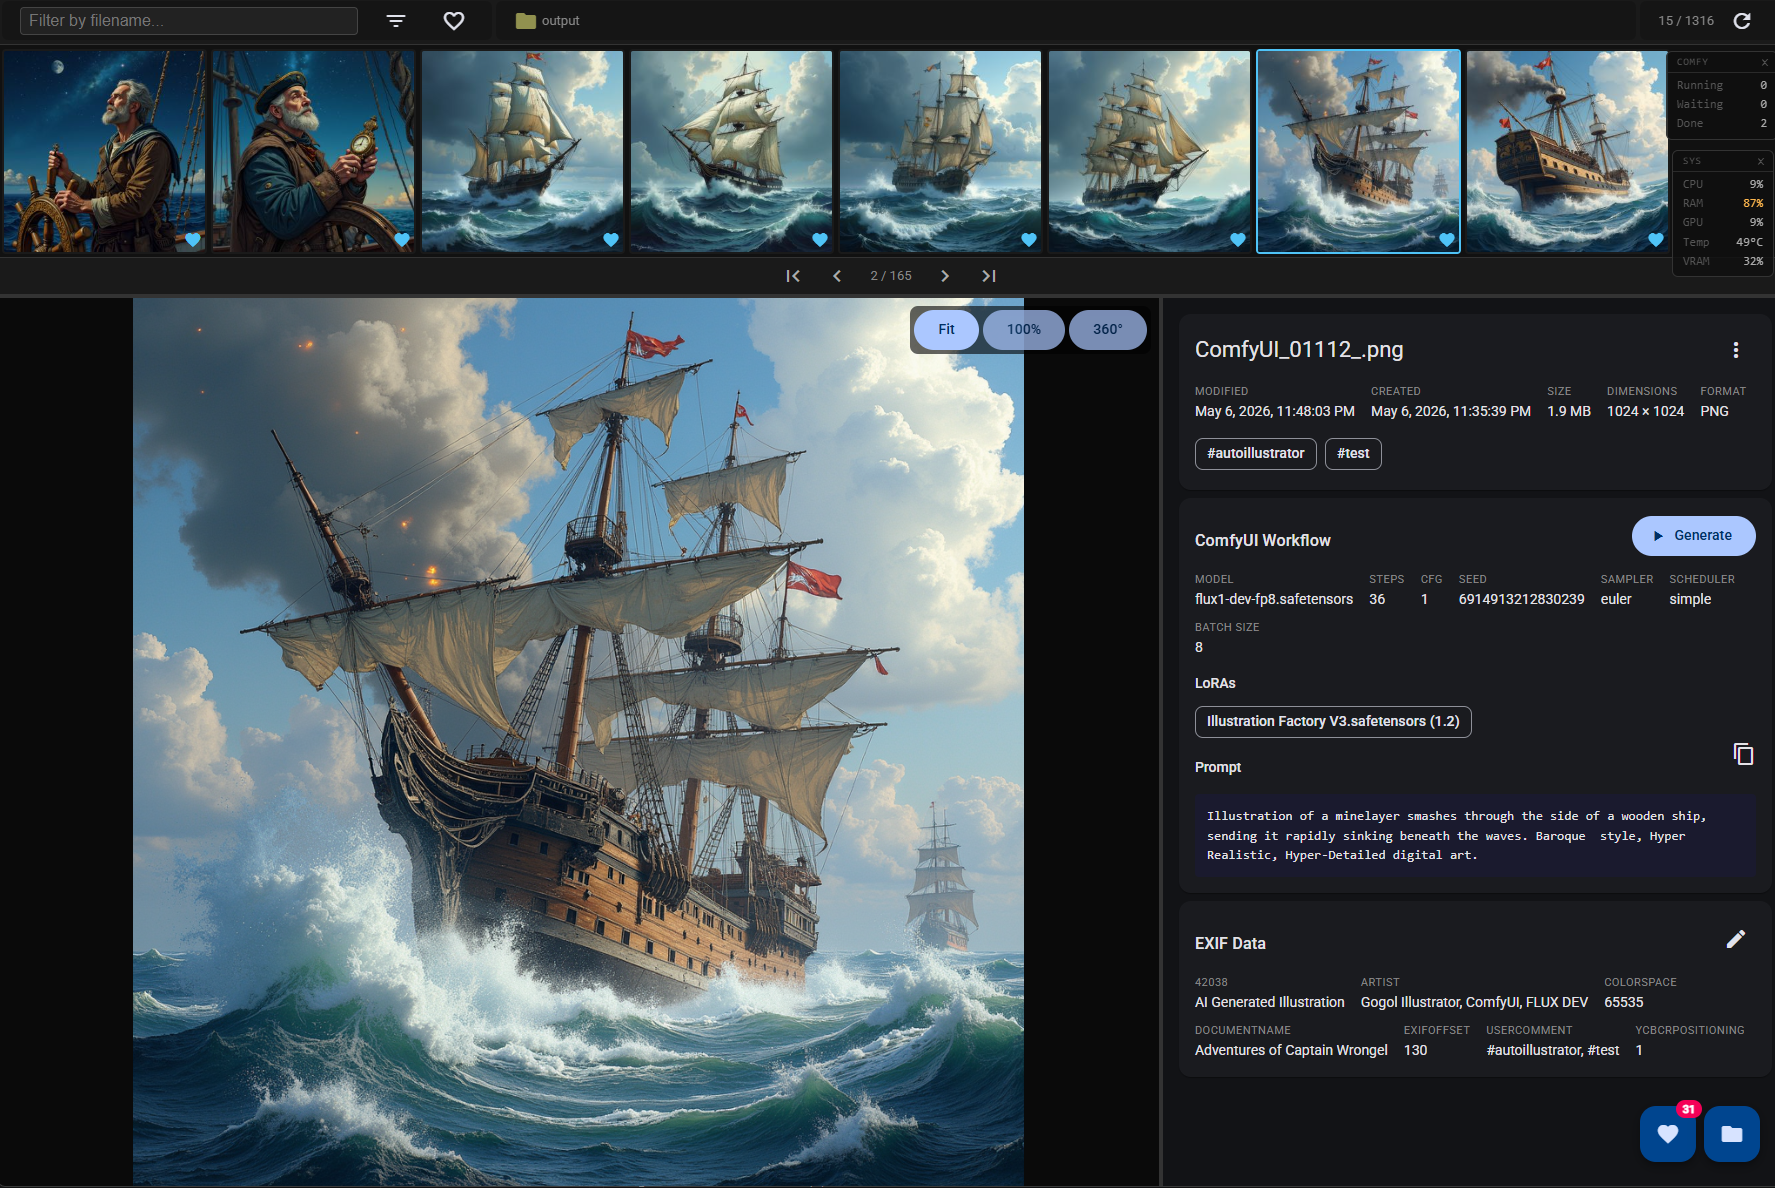
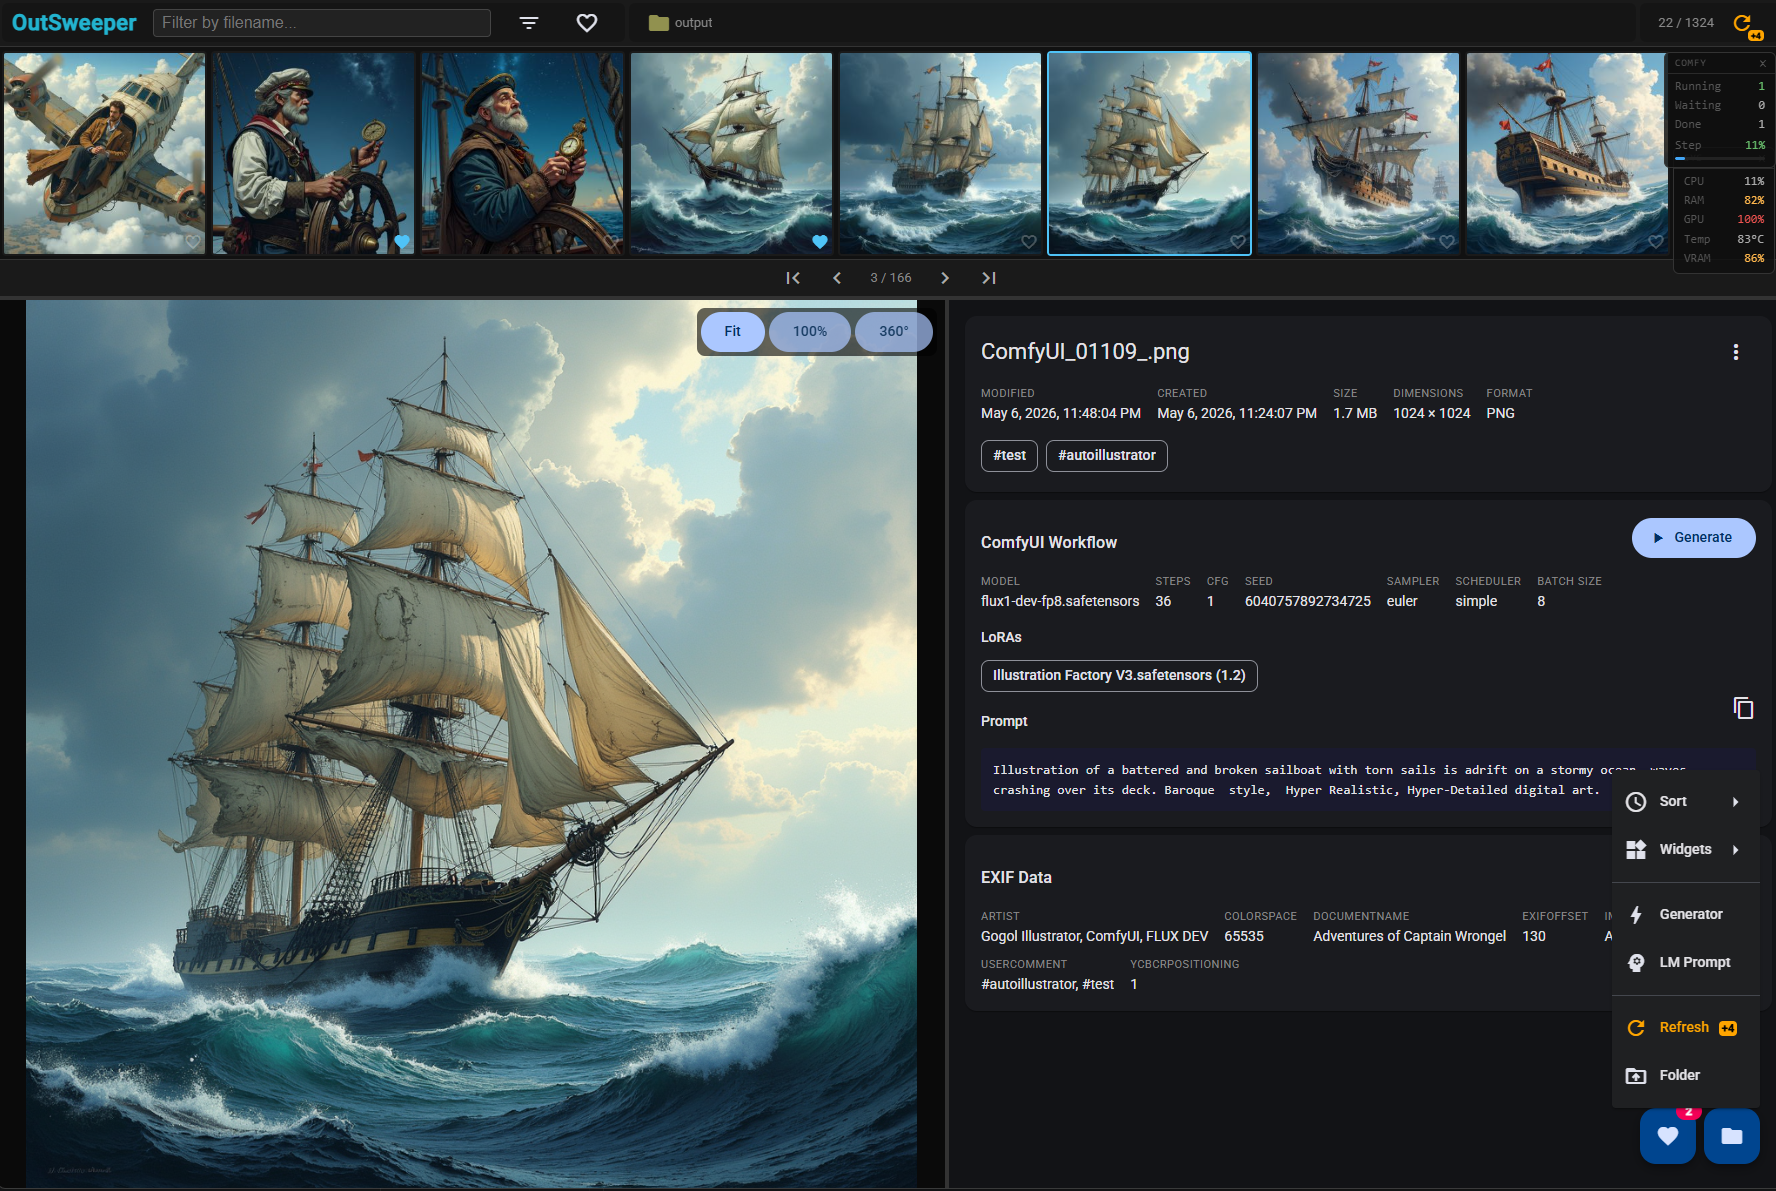
[misc] Added README draft

diff --git a/README.md b/README.md
@@ -1,0 +1,309 @@
+# OutSweeper
+
+**AI Generation Output Triage for ComfyUI**
+
+A fast, keyboard-driven photo triage tool. Open a folder, browse images in a scrollable strip, and sort them into **selected** or **dust** sub-folders — all without leaving the keyboard. Pairs naturally with ComfyUI and LM Studio for AI-assisted workflows.
+
+
+
+## Screenshot
+
+![OutSweeper UI](docs/screenshot.png)
+
+
+
+## Features
+
+### Core triage
+- Keyboard-first navigation across a horizontal thumbnail strip
+- Move photos to `__selected` (keep) or `__dust` (reject) with a single keystroke
+- Multi-select with Space / Ctrl+A, then bulk-move the whole selection
+- Undo the last move with Ctrl+Z (in-memory stack)
+- Filter strip by filename in real time
+- Favorites — mark photos with a heart; toggle the strip to show only favorites
+
+### Viewing
+- Full-resolution preview panel with mouse-wheel zoom and click-drag pan
+- Three view modes: **Fit**, **100%**, **360°** (panoramic scroll)
+- Drag-resizable dividers between the strip, info panel, and preview
+- Lazy-loaded thumbnails (300 × 300 JPEG cache in `__thumbnails/`, mtime-invalidated)
+- Pagination with configurable page size; jump ±10 pages with Shift+PageDown/Up
+
+### Metadata & info panel
+- File info: name, modified/created date, size, dimensions, format
+- EXIF data extraction (date, GPS, ICC profile, PNG text chunks, ComfyUI workflow)
+- ComfyUI workflow details: model, LoRAs, sampler settings, positive prompt, batch size
+- Inline EXIF/metadata editor — edit title, artist, description, document name, copyright, user comment (requires ExifTool)
+- Batch metadata editing across multiple selected files
+- Write AI description to PNG text chunk or JPEG/WebP EXIF `UserComment`
+
+### AI integrations
+- **LM Studio** — send a free-form text prompt and get a response; copy or forward to ComfyUI
+- **Describe image** — pass the current photo to a vision model (e.g. LLaVA); save description to file metadata
+- **Prompt Composer** — build narrative prompts from randomized preset arrays (ambience, character, action, style)
+- One-click "Run LM Studio" / "Run ComfyUI" launcher buttons when the service isn't reachable
+
+### ComfyUI integration
+- Send the current image's embedded workflow directly to ComfyUI with **Generate**
+- Edit any workflow node values before submitting
+- Cartesian-product batch generation: pick multiple LoRA / checkpoint variants, generates all combinations
+- Live ComfyUI queue monitor widget (Running / Waiting / Done)
+- Automatic GPU stats widget: CPU %, RAM %, GPU %, temperature, VRAM %
+
+### File system
+- Background file-system watcher — strip auto-refreshes when files are added or removed
+- Periodic index validation to catch external changes
+- Automatic thumbnail cache cleanup (configurable retention days)
+- Folder switcher: source, `__selected`, `__dust`, and the ComfyUI output folder
+
+### Custom tools
+- Define shell commands in `config.toml` that run against the current file (`%filename%` placeholder)
+- Tools appear as buttons in the info panel
+
+---
+
+## Requirements
+
+| Component | Version |
+|---|---|
+| Python | 3.11+ (3.10 with `tomli`) |
+| Flask | ≥ 3.0 |
+| Pillow | ≥ 10.0 |
+| requests | ≥ 2.33 |
+| psutil | ≥ 5.9 |
+| nvidia-ml-py | ≥ 12.0 |
+| websocket-client | ≥ 1.6 |
+| watchdog | ≥ 4.0 |
+| ExifTool | optional, for metadata editing |
+
+---
+
+## Installation
+
+### 1. Clone
+
+```bash
+git clone https://github.com/yourname/photo-parser.git
+cd photo-parser
+```
+
+### 2. Install Python dependencies
+
+```bash
+pip install -r requirements.txt
+```
+
+### 3. (Optional) ExifTool
+
+Download [ExifTool](https://exiftool.org/) and set its path in `config.toml` under `exiftool_path`. Without it, metadata editing is disabled.
+
+### 4. (Optional) Build the frontend
+
+The `static/` directory is pre-built and committed. Rebuild only if you modify the Angular source:
+
+```bash
+cd frontend
+npx ng build
+```
+
+---
+
+## Running
+
+### Direct
+
+```bash
+python app.py <source_folder>
+```
+
+The browser opens automatically at `http://localhost:1976`.
+
+### Without a folder argument
+
+If `comfy_output` is set in `config.toml`, calling `python app.py` with no argument opens that folder directly.
+
+### Windows launcher (release build)
+
+```bat
+run.bat <source_folder>
+```
+
+### Development (live reload)
+
+Run the Flask backend and Angular dev server in two terminals:
+
+```bash
+# Terminal 1
+python app.py <source_folder>
+
+# Terminal 2
+cd frontend
+npx ng serve          # proxies /api → localhost:1976
+```
+
+App is then at `http://localhost:4200`.
+
+---
+
+## Configuration
+
+Create `config.toml` next to `app.py`. All sections and keys are optional.
+
+```toml
+[permissions]
+# Allow changing source folder from the UI
+allow_dir_change = true
+
+[defaults]
+port                  = 1976
+selected_dir_name     = "__selected"
+dust_dir_name         = "__dust"
+
+# ComfyUI
+comfy_url             = "http://127.0.0.1:8188"
+comfy_output          = "C:/path/to/ComfyUI/output"
+run_comfy_command     = "C:/path/to/run_nvidia_gpu.bat"
+
+# LM Studio
+lmstudio_url          = "http://localhost:1234/v1"
+run_lmstudio_command  = "C:/path/to/LM Studio.exe"
+
+# ExifTool
+exiftool_path         = "exiftool"          # or full path
+
+# Thumbnail cache: delete thumbnails older than N days
+thumb_cache_days      = 3
+
+# Seconds between background index re-validation (null = disabled)
+index_validation_interval = 600
+
+[parameters]
+extract_exif = true   # show EXIF fields in info panel
+extract_gps  = false  # show GPS coordinates
+extract_icc  = false  # show ICC colour profile info
+extract_png  = true   # show PNG text chunks
+
+[widgets]
+gpu_monitor = true    # top-right GPU/CPU stats widget
+comfy_queue = true    # top-right ComfyUI queue widget
+
+# Custom tools — %filename% is replaced with the full file path
+[tools]
+"Split to Four" = "python C:/tools/split_tiles.py %filename%"
+"Upscale"       = "python C:/tools/upscale.py %filename%"
+```
+
+### Config reference
+
+| Key | Default | Description |
+|---|---|---|
+| `defaults.port` | `1976` | HTTP port |
+| `defaults.selected_dir_name` | `__selected` | Sub-folder for kept photos |
+| `defaults.dust_dir_name` | `__dust` | Sub-folder for rejected photos |
+| `defaults.comfy_url` | `http://127.0.0.1:8188` | ComfyUI API base URL |
+| `defaults.comfy_output` | _(empty)_ | ComfyUI output folder; also used as default source if no CLI arg |
+| `defaults.run_comfy_command` | _(empty)_ | Shell command to start ComfyUI |
+| `defaults.lmstudio_url` | `http://localhost:1234/v1` | LM Studio API base URL |
+| `defaults.run_lmstudio_command` | _(empty)_ | Shell command to start LM Studio |
+| `defaults.exiftool_path` | `exiftool` | Path to ExifTool binary |
+| `defaults.thumb_cache_days` | `3` | Days before stale thumbnails are purged |
+| `defaults.index_validation_interval` | _(disabled)_ | Seconds between full index re-checks |
+| `parameters.extract_exif` | `true` | Include EXIF fields in the info panel |
+| `parameters.extract_gps` | `false` | Include GPS coordinates |
+| `parameters.extract_icc` | `false` | Include ICC colour profile |
+| `parameters.extract_png` | `true` | Include PNG text chunks |
+| `permissions.allow_dir_change` | `true` | Show folder-switch button in UI |
+| `widgets.gpu_monitor` | `false` | GPU/CPU stats overlay |
+| `widgets.comfy_queue` | `false` | ComfyUI queue overlay |
+
+---
+
+## Keyboard Shortcuts
+
+### Navigation
+
+| Key | Action |
+|---|---|
+| `→` | Next photo |
+| `←` | Previous photo |
+| `↑` | Move up one strip row |
+| `↓` | Move down one strip row |
+| `Home` | First photo |
+| `End` | Last photo |
+| `Page Down` | Next page |
+| `Page Up` | Previous page |
+| `Shift + Page Down` | Skip forward 10 pages |
+| `Shift + Page Up` | Skip backward 10 pages |
+
+### Triage
+
+| Key | Action |
+|---|---|
+| `+` | Move current photo to `__selected` |
+| `Delete` | Move current photo to `__dust` |
+| `Space` | Toggle selection on current photo |
+| `Ctrl + A` | Select all visible photos |
+| `Ctrl + Z` | Undo last move |
+
+### Other
+
+| Key | Action |
+|---|---|
+| `=` | Switch source folder (opens folder picker) |
+| `Ctrl + S` | Download current photo |
+
+> Keyboard shortcuts are suppressed when a dialog or text input is focused.
+
+---
+
+## Supported Formats
+
+`.png` · `.jpg` · `.jpeg` · `.webp`
+
+---
+
+## Project Structure
+
+```
+photo-parser/
+├── app.py                  # Entry point: CLI parsing, config loading, server start
+├── config.toml             # Local configuration (not committed)
+├── requirements.txt
+├── server/                 # Flask application package
+│   ├── factory.py          # create_app() and all route definitions
+│   ├── state.py            # AppState dataclass
+│   ├── utils.py            # Image utilities, EXIF extraction, thumbnail cache
+│   ├── exiftool.py         # ExifTool integration
+│   ├── background.py       # GPU monitor, ComfyUI WebSocket, queue polling
+│   ├── events.py           # Server-Sent Events broadcast
+│   └── watcher.py          # File-system watcher and index builder
+├── frontend/               # Angular 20 source
+│   └── src/app/
+│       ├── app.ts          # Root component: layout, keyboard, SSE routing
+│       ├── components/     # ImageStrip, InfoPanel, PreviewPanel, all dialogs
+│       ├── services/       # PhotoService, KeyboardService, ConnectionStateService, …
+│       └── models/         # TypeScript interfaces
+├── static/                 # Built Angular output (served by Flask)
+├── release/                # Windows batch launchers
+├── describe.py             # CLI: describe an image with LM Studio
+├── gen.py                  # CLI: batch ComfyUI generation from PNG workflows
+├── run.py                  # CLI: re-submit PNG workflows with random seeds
+└── prompt.py               # CLI: print a single randomised prompt
+```
+
+---
+
+## CLI Utilities
+
+| Script | Usage | Description |
+|---|---|---|
+| `describe.py` | `python describe.py <image> [prompt] [model]` | Describe an image via LM Studio vision API |
+| `gen.py` | `python gen.py <folder>` | Batch ComfyUI generation — reads PNG workflows, randomises prompts and seeds |
+| `run.py` | `python run.py <folder>` | Re-submits PNG workflows with fresh random seeds |
+| `prompt.py` | `python prompt.py` | Prints a single random prompt from preset arrays |
+
+---
+
+## License
+
+MIT